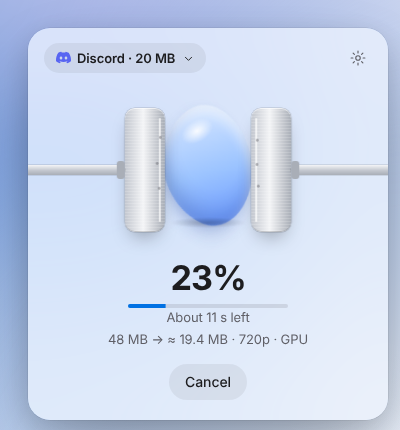
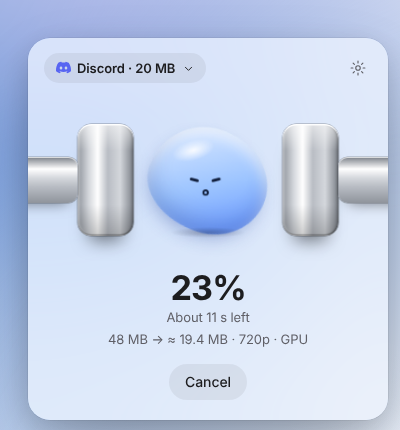
Mockup: bring back blob face, solid steel press heads, drop thin progress bar

diff --git a/design/mockup/index.html b/design/mockup/index.html
@@ -42,8 +42,8 @@
   --focus:rgba(0,113,227,.55);
   --shadow:0 0 0 .5px rgba(0,0,0,.12),0 10px 30px rgba(0,0,0,.16),0 30px 80px -20px rgba(0,0,0,.28);
   --shadow-sm:0 0 0 .5px rgba(0,0,0,.1),0 4px 14px rgba(0,0,0,.12);
-  --pouch-a:#e9f2ff; --pouch-b:#9cc4ff; --pouch-c:#5b8cff;
-  --plate-a:#c3c7cf; --plate-b:#f4f5f7; --plate-c:#a9aeb7;
+  --pouch-a:#e9f2ff; --pouch-b:#9cc4ff; --pouch-c:#5b8cff; --face:#13213f;
+  --m1:#8f949c; --m2:#d4d7dc; --m3:#ffffff; --m4:#b9bdc4; --m5:#7b8088;
   --chat-bg:#fbfaf8; --chat-side:#f1efea; --chat-line:rgba(0,0,0,.08); --chat-text:#26251f; --chat-muted:#66635b; --chat-input:#ebe8e2; --chat-accent:#0b7a6c;
 }
 @media (prefers-color-scheme: dark){ :root:not([data-theme="light"]){
@@ -57,7 +57,7 @@
   --focus:rgba(77,163,255,.7);
   --shadow:0 0 0 .5px rgba(255,255,255,.12),0 10px 30px rgba(0,0,0,.4),0 30px 80px -20px rgba(0,0,0,.6);
   --shadow-sm:0 0 0 .5px rgba(255,255,255,.1),0 4px 14px rgba(0,0,0,.35);
-  --pouch-a:#cfe2ff; --pouch-b:#7aa9ff; --pouch-c:#3d6fff; --plate-a:#4a4e57; --plate-b:#9095a0; --plate-c:#383b42;
+  --pouch-a:#cfe2ff; --pouch-b:#7aa9ff; --pouch-c:#3d6fff; --m1:#6c717a; --m2:#b8bdc5; --m3:#f4f6f9; --m4:#9ba0a9; --m5:#555960;
   --chat-bg:#1d1e1b; --chat-side:#252622; --chat-line:rgba(255,255,255,.08); --chat-text:#ecebe6; --chat-muted:#a9a69d; --chat-input:#2e2f2b; --chat-accent:#4fd1bd;
 }}
 :root[data-theme="dark"]{
@@ -71,7 +71,7 @@
   --focus:rgba(77,163,255,.7);
   --shadow:0 0 0 .5px rgba(255,255,255,.12),0 10px 30px rgba(0,0,0,.4),0 30px 80px -20px rgba(0,0,0,.6);
   --shadow-sm:0 0 0 .5px rgba(255,255,255,.1),0 4px 14px rgba(0,0,0,.35);
-  --pouch-a:#cfe2ff; --pouch-b:#7aa9ff; --pouch-c:#3d6fff; --plate-a:#4a4e57; --plate-b:#9095a0; --plate-c:#383b42;
+  --pouch-a:#cfe2ff; --pouch-b:#7aa9ff; --pouch-c:#3d6fff; --m1:#6c717a; --m2:#b8bdc5; --m3:#f4f6f9; --m4:#9ba0a9; --m5:#555960;
   --chat-bg:#1d1e1b; --chat-side:#252622; --chat-line:rgba(255,255,255,.08); --chat-text:#ecebe6; --chat-muted:#a9a69d; --chat-input:#2e2f2b; --chat-accent:#4fd1bd;
 }
 @supports (transition-timing-function: linear(0, 1)){
@@ -224,24 +224,37 @@ kbd{display:inline-block;min-width:20px;padding:0 6px;border-radius:6px;backgrou
 .blob{position:absolute;inset:0;border-radius:47% 53% 45% 55%/55% 52% 48% 45%;background:linear-gradient(150deg,var(--pouch-a) 0%,var(--pouch-b) 55%,var(--pouch-c) 100%);box-shadow:inset 0 -12px 22px rgba(25,45,120,.22),inset 0 8px 14px rgba(255,255,255,.6),0 10px 22px -8px rgba(40,70,160,.45);animation:spin 18s linear infinite}
 @keyframes spin{to{transform:rotate(360deg)}}
 .gloss{position:absolute;left:20%;top:11%;width:36%;height:20%;border-radius:50%;background:radial-gradient(closest-side,rgba(255,255,255,.9),rgba(255,255,255,0));transform:rotate(-16deg)}
+.face{position:absolute;left:50%;top:44%;width:52px;height:28px;margin-left:-26px;transition:transform 180ms var(--ease)}
+.eye{position:absolute;top:0;width:8px;height:13px;border-radius:5px;background:var(--face);transform-origin:50% 60%;animation:blink 5.4s infinite}
+.eye.l{left:9px} .eye.r{right:9px}
+@keyframes blink{0%,95%,100%{transform:none}97%{transform:scaleY(.12)}}
+.mouth{position:absolute;left:50%;top:18px;width:12px;height:6px;margin-left:-6px;border:2.2px solid var(--face);border-top:0;border-radius:0 0 12px 12px}
+[data-mood="hungry"] .eye{height:15px;width:9px}
+[data-mood="hungry"] .mouth{width:13px;height:13px;margin-left:-6.5px;border:0;border-radius:50%;background:var(--face);top:17px}
+[data-mood="worried"] .eye{height:10px;top:3px}
+[data-mood="worried"] .mouth{top:21px;height:5px;border:2.2px solid var(--face);border-bottom:0;border-radius:12px 12px 0 0}
+[data-mood="busy"] .eye{height:3px;width:10px;top:6px;border-radius:2px;animation:none}
+[data-mood="busy"] .eye.l{transform:rotate(14deg)} [data-mood="busy"] .eye.r{transform:rotate(-14deg)}
+[data-mood="busy"] .mouth{width:7px;height:7px;margin-left:-3.5px;border:2px solid var(--face);border-radius:50%}
+[data-mood="happy"] .eye{background:none;border:2.4px solid var(--face);border-bottom:0;border-radius:10px 10px 0 0;height:7px;width:11px;top:4px;animation:none}
+[data-mood="happy"] .mouth{width:18px;height:9px;margin-left:-9px;border:0;background:var(--face);border-radius:0 0 18px 18px}
+.pouch{cursor:pointer}
 [data-mood="worried"] .breathe{animation:wobble 2.6s ease-in-out infinite}
 @keyframes wobble{0%,55%,100%{transform:none}10%{transform:rotate(-4deg) scale(1.03,.97)}22%{transform:rotate(3deg) scale(.98,1.02)}34%{transform:rotate(-1.5deg)}45%{transform:rotate(.6deg)}}
 .shadow{position:absolute;left:18%;right:18%;bottom:-6px;height:12px;border-radius:50%;background:radial-gradient(closest-side,rgba(0,0,0,.22),transparent);transform-origin:50% 50%}
 /* Hydraulic press (compressing) */
 .rig{position:absolute;inset:0;pointer-events:none;opacity:0;transition:opacity var(--t-fast)}
 .stage[data-size="press"] .rig{opacity:1}
-.plate{position:absolute;left:50%;top:50%;width:40px;height:124px;margin:-62px 0 0 -20px;border-radius:10px;will-change:transform;
-  background:repeating-linear-gradient(180deg,transparent 0 2px,rgba(255,255,255,.16) 2px 3px),linear-gradient(90deg,var(--plate-a),var(--plate-b) 46%,var(--plate-c));
-  box-shadow:inset 0 1px 0 rgba(255,255,255,.65),inset 0 -1px 0 rgba(0,0,0,.14),0 0 0 .5px rgba(0,0,0,.2),0 10px 20px -8px rgba(0,0,0,.4)}
-.plate::after{content:"";position:absolute;top:10px;bottom:10px;width:2px;border-radius:1px;background:rgba(255,255,255,.7)}
-.plate.l::after{right:4px} .plate.r::after{left:4px}
-.rod{position:absolute;top:50%;width:240px;height:10px;margin-top:-5px;border-radius:5px;background:linear-gradient(180deg,var(--plate-b),var(--plate-a) 55%,var(--plate-c));box-shadow:0 0 0 .5px rgba(0,0,0,.18)}
-.plate.l .rod{right:100%} .plate.r .rod{left:100%}
-.rod::before{content:"";position:absolute;top:-4px;bottom:-4px;width:8px;border-radius:3px;background:var(--plate-c)}
-.plate.l .rod::before{right:0} .plate.r .rod::before{left:0}
+.plate{position:absolute;left:50%;top:50%;width:56px;height:112px;margin:-56px 0 0 -28px;border-radius:14px;will-change:transform;
+  background:linear-gradient(180deg,rgba(255,255,255,.55) 0,rgba(255,255,255,0) 24%,rgba(0,0,0,0) 72%,rgba(0,0,0,.2) 100%),
+    linear-gradient(90deg,var(--m1) 0%,var(--m2) 20%,var(--m3) 36%,var(--m4) 54%,var(--m2) 76%,var(--m5) 100%);
+  box-shadow:inset 0 1.5px 0 rgba(255,255,255,.95),inset 0 -2px 1px rgba(0,0,0,.2),inset 2px 0 2px rgba(255,255,255,.35),inset -2px 0 2px rgba(0,0,0,.18),
+    0 0 0 .5px rgba(0,0,0,.35),0 16px 18px -12px rgba(0,0,0,.55)}
+.plate::before{content:"";position:absolute;top:50%;width:200px;height:46px;margin-top:-23px;border-radius:9px;
+  background:linear-gradient(180deg,var(--m5) 0%,var(--m3) 26%,var(--m2) 46%,var(--m4) 64%,var(--m1) 100%);
+  box-shadow:inset 0 1px 0 rgba(255,255,255,.7),0 0 0 .5px rgba(0,0,0,.3),0 10px 14px -10px rgba(0,0,0,.5)}
+.plate.l::before{right:100%} .plate.r::before{left:100%}
 .dust i{position:absolute;left:50%;top:50%;width:4px;height:4px;margin:-2px;border-radius:50%;background:var(--label-2);opacity:0}
-.pbar{width:160px;height:4px;margin:6px auto 0;border-radius:2px;background:var(--fill-2);overflow:hidden}
-.pbar i{display:block;height:100%;background:var(--accent);transform-origin:0 50%;transform:scaleX(0)}
 .sparks i{position:absolute;left:50%;top:50%;width:6px;height:6px;margin:-3px;border-radius:50%;background:var(--accent);opacity:0}
 .sparks i:nth-child(even){background:var(--pouch-b)}
 .sparks.burst i{animation:spark 420ms var(--ease) forwards}
@@ -545,10 +558,11 @@ html.rm *,html.rm *::before,html.rm *::after{animation-duration:1ms!important;an
                     <div class="pouch" id="pouch" data-mood="idle" aria-hidden="true">
             <div class="breathe"><div class="spring" id="pouchSpring">
               <div class="blob"></div><div class="gloss"></div>
+              <div class="face" id="face"><span class="eye l"></span><span class="eye r"></span><span class="mouth"></span></div>
             </div></div>
             <div class="shadow" id="pouchShadow"></div>
           </div>
-          <div class="rig" aria-hidden="true"><div class="plate l" id="plateL"><span class="rod"></span></div><div class="plate r" id="plateR"><span class="rod"></span></div><div class="dust" id="dust"><i></i><i></i><i></i><i></i><i></i><i></i></div></div>
+          <div class="rig" aria-hidden="true"><div class="plate l" id="plateL"></div><div class="plate r" id="plateR"></div><div class="dust" id="dust"><i></i><i></i><i></i><i></i><i></i><i></i></div></div>
           <div class="sparks" id="sparks" aria-hidden="true"><i style="--a:0deg"></i><i style="--a:45deg"></i><i style="--a:90deg"></i><i style="--a:135deg"></i><i style="--a:180deg"></i><i style="--a:225deg"></i><i style="--a:270deg"></i><i style="--a:315deg"></i></div>
         </div>
 
@@ -621,7 +635,7 @@ html.rm *,html.rm *::before,html.rm *::after{animation-duration:1ms!important;an
         <!-- Compressing -->
         <section class="view center" data-view="progress" aria-label="Compressing">
           <div id="progBar" role="progressbar" aria-valuemin="0" aria-valuemax="100" aria-valuenow="0" aria-label="Compression progress">
-            <div class="pct" id="pct">0%</div><div class="pbar" aria-hidden="true"><i id="pbarFill"></i></div>
+            <div class="pct" id="pct">0%</div>
           </div>
           <p class="sub" id="progLeft" style="margin-top:0">Starting…</p>
           <p class="sub" id="progMeta"></p>
@@ -838,6 +852,15 @@ const pouchEl = $('#pouch');
 const sp = new Spring($('#pouchSpring'), $('#pouchShadow'));
 const setMood = m => pouchEl.dataset.mood = m;
 const chomp = () => sp.push({ sx: 3.2, sy: -4.2 });
+pouchEl.addEventListener('pointerdown', () => { if (!prog) chomp(); });
+/* Eyes follow the pointer, a little */
+let eyeRaf = 0, px = 0, py = 0;
+const face = $('#face');
+function lookAt() { eyeRaf = 0; if (reduced() || !S.open) return; const r = pouchEl.getBoundingClientRect(); if (!r.width) return;
+  const dx = px - (r.left + r.width / 2), dy = py - (r.top + r.height / 2), d = Math.hypot(dx, dy) || 1, m = Math.min(3.5, d / 50);
+  face.style.transform = `translate(${(dx / d * m).toFixed(2)}px,${(dy / d * m * .7).toFixed(2)}px)`; }
+const trackPtr = e => { px = e.clientX; py = e.clientY; if (!eyeRaf) eyeRaf = requestAnimationFrame(lookAt); };
+document.addEventListener('pointermove', trackPtr, { passive: true });
 function burst() { if (reduced()) return; const s = $('#sparks'); s.classList.remove('burst'); void s.offsetWidth; s.classList.add('burst'); }
 
 
@@ -1084,11 +1107,11 @@ $('#modeSeg').addEventListener('pick', e => { S.mode = e.detail; updTrim(true); 
 /* ───── Compress (single file) ───── */
 let prog = null;
 /* Hydraulic press: transform/opacity only (WAAPI on two plates, CSS var scale on the blob) */
-const plates = [$('#plateL'), $('#plateR')], PW = 20, SQ = .74, dustEls = $$('#dust i');
+const plates = [$('#plateL'), $('#plateR')], PW = 28, SQ = .74, dustEls = $$('#dust i');
 const setPs = v => pouchEl.style.setProperty('--ps', v.toFixed(3));
 const X = (i, d, y = 0) => `translate(${((i ? 1 : -1) * d).toFixed(1)}px,${y}px)`;
 const openDist = () => stage.clientWidth / 2 + PW + 6;
-function platesGo(frames, dur, easing) { plates.forEach((p, i) => { p.getAnimations().forEach(a => a.cancel()); const kf = frames.map(f => ({ transform: X(i, f.d, f.y || 0), offset: f.o })); p.style.transform = kf[kf.length - 1].transform; p.animate(kf, { duration: dur, easing }); }); }
+function platesGo(frames, dur, easing) { plates.forEach((p, i) => { p.getAnimations().forEach(a => a.cancel()); const kf = frames.map(f => ({ transform: X(i, f.d, f.y || 0), offset: f.o, easing: f.e || 'linear' })); p.style.transform = kf[kf.length - 1].transform; p.animate(kf, { duration: dur, easing }); }); }
 function dust(edge) {
   dustEls.forEach((d, i) => { const s = i % 2 ? 1 : -1, y = (Math.floor(i / 2) - 1) * 24;
     d.animate([{ opacity: .75, transform: `translate(${s * edge}px,${y}px)` }, { opacity: 0, transform: `translate(${s * (edge + 10 + Math.random() * 10)}px,${y - 10 - Math.random() * 12}px) scale(.4)` }], { duration: 360, easing: 'ease-out' }); });
@@ -1099,17 +1122,22 @@ function pressStart() {
   const o = openDist(); platesGo([{ d: o }, { d: 66 + PW + 16 }], 280, SPRING_EASE);
 }
 function stroke(base, next) {
-  const hit = 66 * base * SQ + PW, back = 66 * next + PW + 14, T = 540;
-  platesGo([{ d: 66 * base + PW + 14 }, { d: hit - 2, o: .3 }, { d: hit + 1.4, y: 1, o: .38 }, { d: hit - .7, y: -1, o: .46 }, { d: hit, o: .54 }, { d: hit, o: .68 }, { d: back }], T, 'cubic-bezier(.55,0,.25,1)');
-  prog.t.push(setTimeout(() => { if (!prog) return; sp.v.sx = SQ; sp.v.sy = 1.14; sp.vel.sx = sp.vel.sy = 0; sp.to({ sx: SQ, sy: 1.12 }); dust(hit - PW); }, T * .3));
-  prog.t.push(setTimeout(() => { if (!prog) return; setPs(next); sp.to({ sx: 1, sy: 1 }); }, T * .68));
+  const hit = 66 * base * SQ + PW, rest = 66 * base + PW + 14, back = 66 * next + PW + 14, T = 660;
+  platesGo([
+    { d: rest, e: 'cubic-bezier(.45,0,.55,1)' },          // slow wind-up (pull back)
+    { d: rest + 10, o: .36, e: 'cubic-bezier(.75,0,1,.6)' }, // fast, hard drive in
+    { d: hit - 1.5, o: .5 },                                 // impact
+    { d: hit + 1.2, y: .8, o: .55 }, { d: hit - .6, y: -.6, o: .6 }, { d: hit, o: .65 }, // tiny shake
+    { d: hit, o: .78, e: 'cubic-bezier(.3,0,.2,1)' }, { d: back }], T, 'linear');
+  prog.t.push(setTimeout(() => { if (!prog) return; sp.v.sx = SQ; sp.v.sy = 1.14; sp.vel.sx = sp.vel.sy = 0; sp.to({ sx: SQ, sy: 1.12 }); dust(hit - PW); }, T * .5));
+  prog.t.push(setTimeout(() => { if (!prog) return; setPs(next); sp.to({ sx: 1, sy: 1 }); }, T * .78));
 }
 function pressFinish(done) {
   if (reduced()) { pouchEl.style.opacity = '0'; prog.t.push(setTimeout(done, 160)); return; }
-  platesGo([{ d: 66 * .32 + PW + 14 }, { d: PW + 3 }], 200, 'cubic-bezier(.6,0,.9,.6)');
+  platesGo([{ d: 66 * .32 + PW + 14 }, { d: PW + 2 }], 200, 'cubic-bezier(.7,0,1,.6)');
   sp.to({ sx: .4, sy: 1.15 }); setPs(.06);
   prog.t.push(setTimeout(() => { pouchEl.style.opacity = '0'; burst(); }, 200));
-  prog.t.push(setTimeout(() => platesGo([{ d: PW + 3 }, { d: openDist() }], 260, SPRING_EASE), 260));
+  prog.t.push(setTimeout(() => platesGo([{ d: PW + 2 }, { d: openDist() }], 260, SPRING_EASE), 260));
   prog.t.push(setTimeout(done, 420));
 }
 function startCompress(o = {}) {
@@ -1121,15 +1149,14 @@ function startCompress(o = {}) {
   const gpu = $('#swGpu').getAttribute('aria-checked') === 'true';
   $('#progMeta').textContent = `${fmt(f.size)} → ≈ ${fmt(S.result.out)} · ${S.result.label} · ${gpu ? 'GPU' : 'CPU'}`;
   tray.dataset.state = 'busy';
-  const dur = 4600, every = 575, t0 = performance.now(); let lastMs = -1, lastStroke = -1;
+  const dur = 4600, every = 720, t0 = performance.now(); let lastMs = -1, lastStroke = -1;
   const base = k => 1 - .68 * Math.min(1, k);
-  const pb = $('#progBar'), fillEl = $('#pbarFill');
+  const pb = $('#progBar');
   prog = { raf: 0, t: [] };
   pressStart();
   const tick = now => {
     if (!prog) return;
     const el = now - t0, k = Math.min(1, el / dur), pct = Math.round(k * 100), left = Math.ceil((1 - k) * 14);
-    fillEl.style.transform = `scaleX(${k.toFixed(3)})`;
     $('#pct').textContent = pct + '%';
     $('#progLeft').textContent = k < 1 ? `About ${left} s left` : 'Finishing…';
     pb.setAttribute('aria-valuenow', pct); pb.setAttribute('aria-valuetext', `${pct}%, about ${left} seconds left`);
@@ -1182,7 +1209,7 @@ function setDrag(on) {
   sp.to(on ? { sx: 1.08, sy: 1.08 } : { sx: 1, sy: 1 });
 }
 fly.addEventListener('dragenter', e => { e.preventDefault(); if (++dragDepth === 1) { if (S.view !== 'idle' && !prog) show('idle'); setDrag(true); } });
-fly.addEventListener('dragover', e => { e.preventDefault(); e.dataTransfer.dropEffect = 'copy'; });
+fly.addEventListener('dragover', e => { e.preventDefault(); e.dataTransfer.dropEffect = 'copy'; trackPtr(e); });
 fly.addEventListener('dragleave', () => { if (--dragDepth <= 0) { dragDepth = 0; setDrag(false); } });
 fly.addEventListener('drop', e => {
   e.preventDefault(); dragDepth = 0; setDrag(false);
